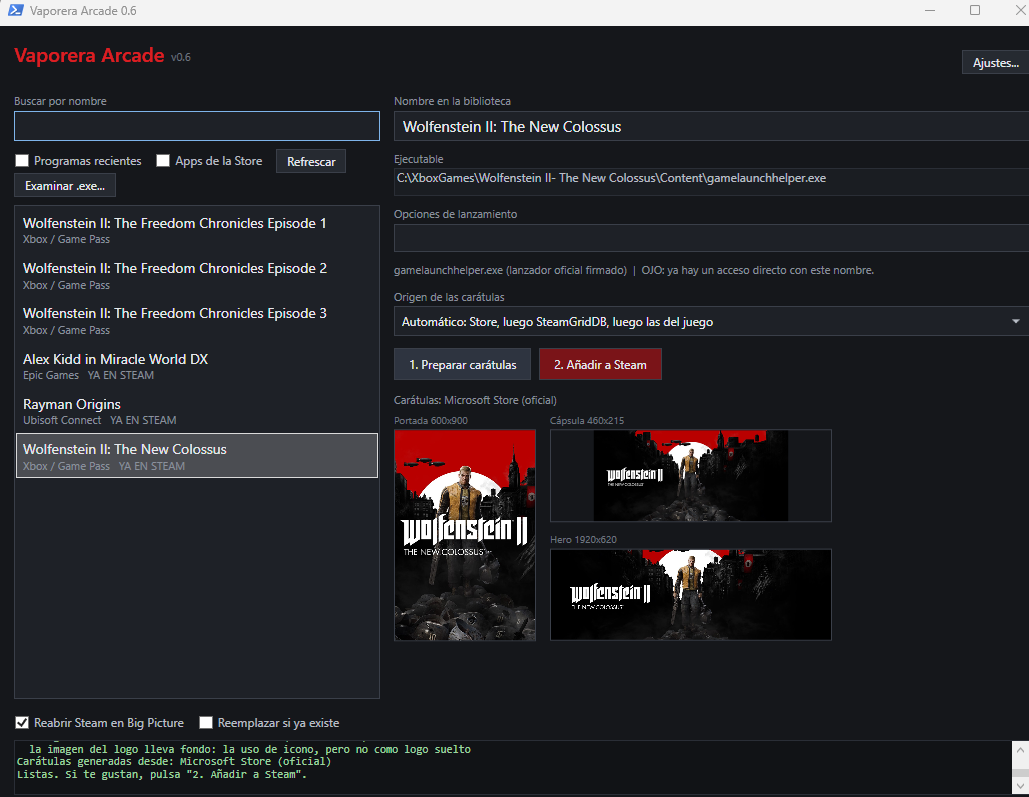
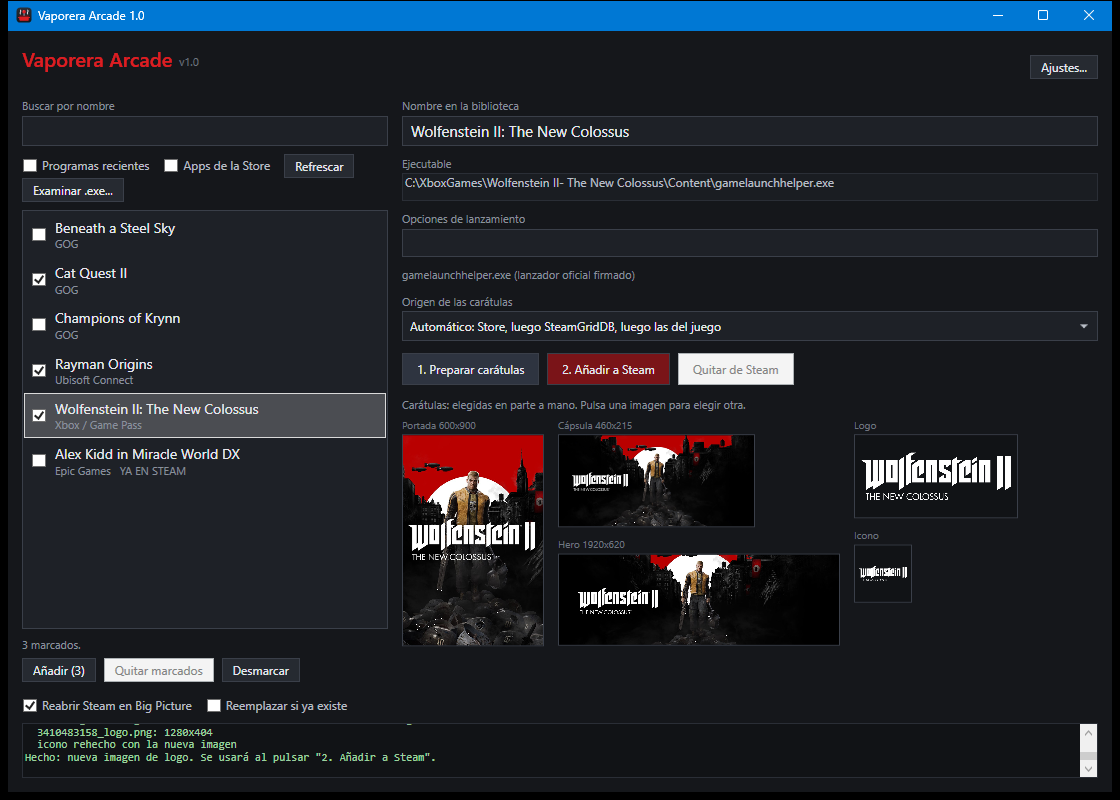
Version 1.0
- $AppVersion 1.0 y linea de la 1.0 en el historial del README.
- Capturas nuevas en el README: ventana principal (rehecha), galeria, elegir el
  juego y Ajustes.

Changed region(s): [[0.0, 0.0, 1.0, 1.0]]

diff --git a/README.md b/README.md
@@ -113,6 +113,11 @@ powershell -ExecutionPolicy Bypass -STA -File .\VaporeraArcade.ps1
      encontrado ninguno porque el nombre detectado no se parece al real. Busca en la Store y en
      SteamGridDB con el nombre que escribas, y al elegir el bueno se preparan otra vez todas las
      carátulas con él. El nombre con el que aparece en Steam no cambia.
+
+   ![La galería de la portada de un juego: la actual y las demás de la Store y de SteamGridDB, con los botones «Elegir otro juego…» y «Cargar imagen…» debajo](docs/captura-galeria.png)
+
+   ![La ventana «Elegir el juego»: un cuadro de búsqueda y la lista de resultados de la Store y de SteamGridDB, con el parecido de cada uno y el juego de ahora marcado](docs/captura-elegir.png)
+
 5. Pulsa **2. Añadir a Steam**. La aplicación cierra Steam, añade el juego, copia las imágenes
    y vuelve a abrir Steam.
 
@@ -144,6 +149,9 @@ Por orden de preferencia:
    API, que es gratuita: consíguela en tu [perfil de SteamGridDB](https://www.steamgriddb.com/profile/preferences/api),
    pulsa **Ajustes…** en la aplicación, pégala y usa **Probar** para comprobar que funciona.
    Se guarda en `%LOCALAPPDATA%\VaporeraArcade\config.json`, fuera de la carpeta de la aplicación.
+
+   ![La ventana de Ajustes, con el cuadro para la clave de API de SteamGridDB y los botones Probar, Guardar y Cancelar](docs/captura-ajustes.png)
+
 3. **Imágenes del propio juego.** Si no hay nada más, compone las carátulas con el fondo y el
    logo que trae el juego instalado (en Ubisoft y GOG, su icono a 256×256; en los clásicos de
    GOG, el del juego y no el de DOSBox o ScummVM). En las apps de la Store usa el icono de la
@@ -286,7 +294,7 @@ Vaporera Arcade
 ├── CrearAccesoDirecto.ps1       desbloquea los ficheros y crea el acceso directo
 ├── docs
 │   ├── VaporeraArcade.ico       icono del acceso directo y de la ventana
-│   └── captura.png              la captura de este README
+│   └── captura*.png             las capturas de este README
 └── lib
     ├── Config.ps1               ajustes del usuario (config.json en %LOCALAPPDATA%)
     ├── Vdf.ps1                  lectura y escritura del formato VDF binario y cálculo del appid
@@ -328,6 +336,10 @@ instalar la versión 5.
 
 ## Historial de versiones
 
+- **1.0** (28-09-2026): añadir o quitar varios juegos a la vez cerrando Steam una sola vez.
+  En la vista previa, cargar una imagen propia o elegir el juego correcto cuando la búsqueda
+  acierta con otro. La Store se consulta con el país y el idioma de Windows, los DLC de Xbox
+  ya no salen como juegos, la ventana es más grande y hay un README en inglés.
 - **0.9** (26-09-2026): galería en la vista previa para cambiar la portada, la cápsula, el
   hero o el logo por otro de la Store o de SteamGridDB. La ventana ya no se congela al
   preparar las carátulas y se puede cancelar. GOG probado con juegos reales, incluidos los
